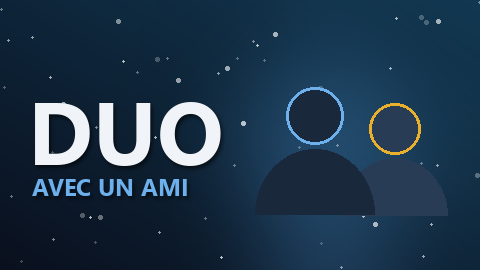
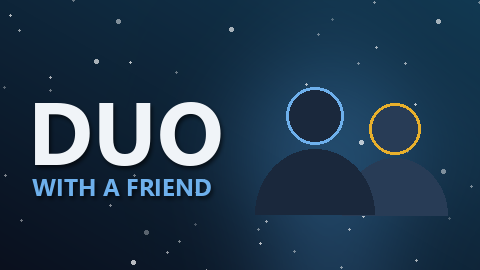
English by default: README and news (French translation included)

diff --git a/README.md b/README.md
@@ -1,30 +1,30 @@
 # Dione Rebuild — launcher
 
-**Projet de fans non officiel, nécessite sa propre copie Steam du jeu.**
+**Unofficial fan project — requires your own Steam copy of the game.**
 
-Recréation non commerciale de la carte Mt Dione de *Ring of Elysium* (moteur Godot 4). Aucun lien avec l'éditeur ou le développeur du jeu.
+A non-commercial recreation of the Mt Dione map from *Ring of Elysium*, built with Godot 4. Not affiliated with the game's publisher or developer.
 
-## Télécharger
+## Download
 
-**[DioneLauncher.exe](https://github.com/betit-web/dione-rebuild/releases/latest/download/DioneLauncher.exe)** — Windows 10/11 64 bits, ~130 Ko.
+**[DioneLauncher.exe](https://github.com/betit-web/dione-rebuild/releases/latest/download/DioneLauncher.exe)** — Windows 10/11, 64-bit, about 200 KB.
 
-## Communauté
+## Community
 
-Discord : https://discord.gg/BJjg4VJUy
+Discord: https://discord.gg/BJjg4VJUy
 
-## Il te faut
+## Requirements
 
-- **Ring of Elysium installé dans ta bibliothèque Steam.** Aucun fichier du jeu n'est distribué ici : les données sont extraites sur ton PC depuis ta propre copie (lecture seule, rien n'y est modifié).
-- Environ 6 Go libres.
+- **Ring of Elysium installed in your Steam library.** No game files are distributed here: the game data is extracted on your PC from your own copy (read-only, nothing is modified).
+- About 6 GB of free disk space.
 
-## Ce que fait le launcher
+## What the launcher does
 
-1. Crée ton compte (email + mot de passe, vérification par email).
-2. Trouve Ring of Elysium dans Steam et vérifie sa version.
-3. Télécharge notre code et les moteurs nécessaires (Godot, Python), tous vérifiés par SHA-256.
-4. Extrait les données du jeu en local (10 à 20 min la première fois).
-5. JOUER ouvre le menu, connecté à ton compte (ton identifiant d'ami = ton compte).
+1. Creates your account (email + password, email verification).
+2. Finds Ring of Elysium in Steam and checks its version.
+3. Downloads our code and the required engines (Godot, Python), all verified by SHA-256.
+4. Extracts the game data locally (10–20 minutes the first time).
+5. PLAY opens the main menu, signed in to your account (your friend ID is tied to your account).
 
-Les mises à jour sont automatiques.
+Updates are automatic. Language: English by default; French and the original game languages can be selected in the settings (gear icon).
 
-L'exe n'est pas signé : Windows SmartScreen peut afficher un avertissement → « Informations complémentaires » → « Exécuter quand même ».
+The executable is not code-signed, so Windows SmartScreen may show a warning: "More info" → "Run anyway".
